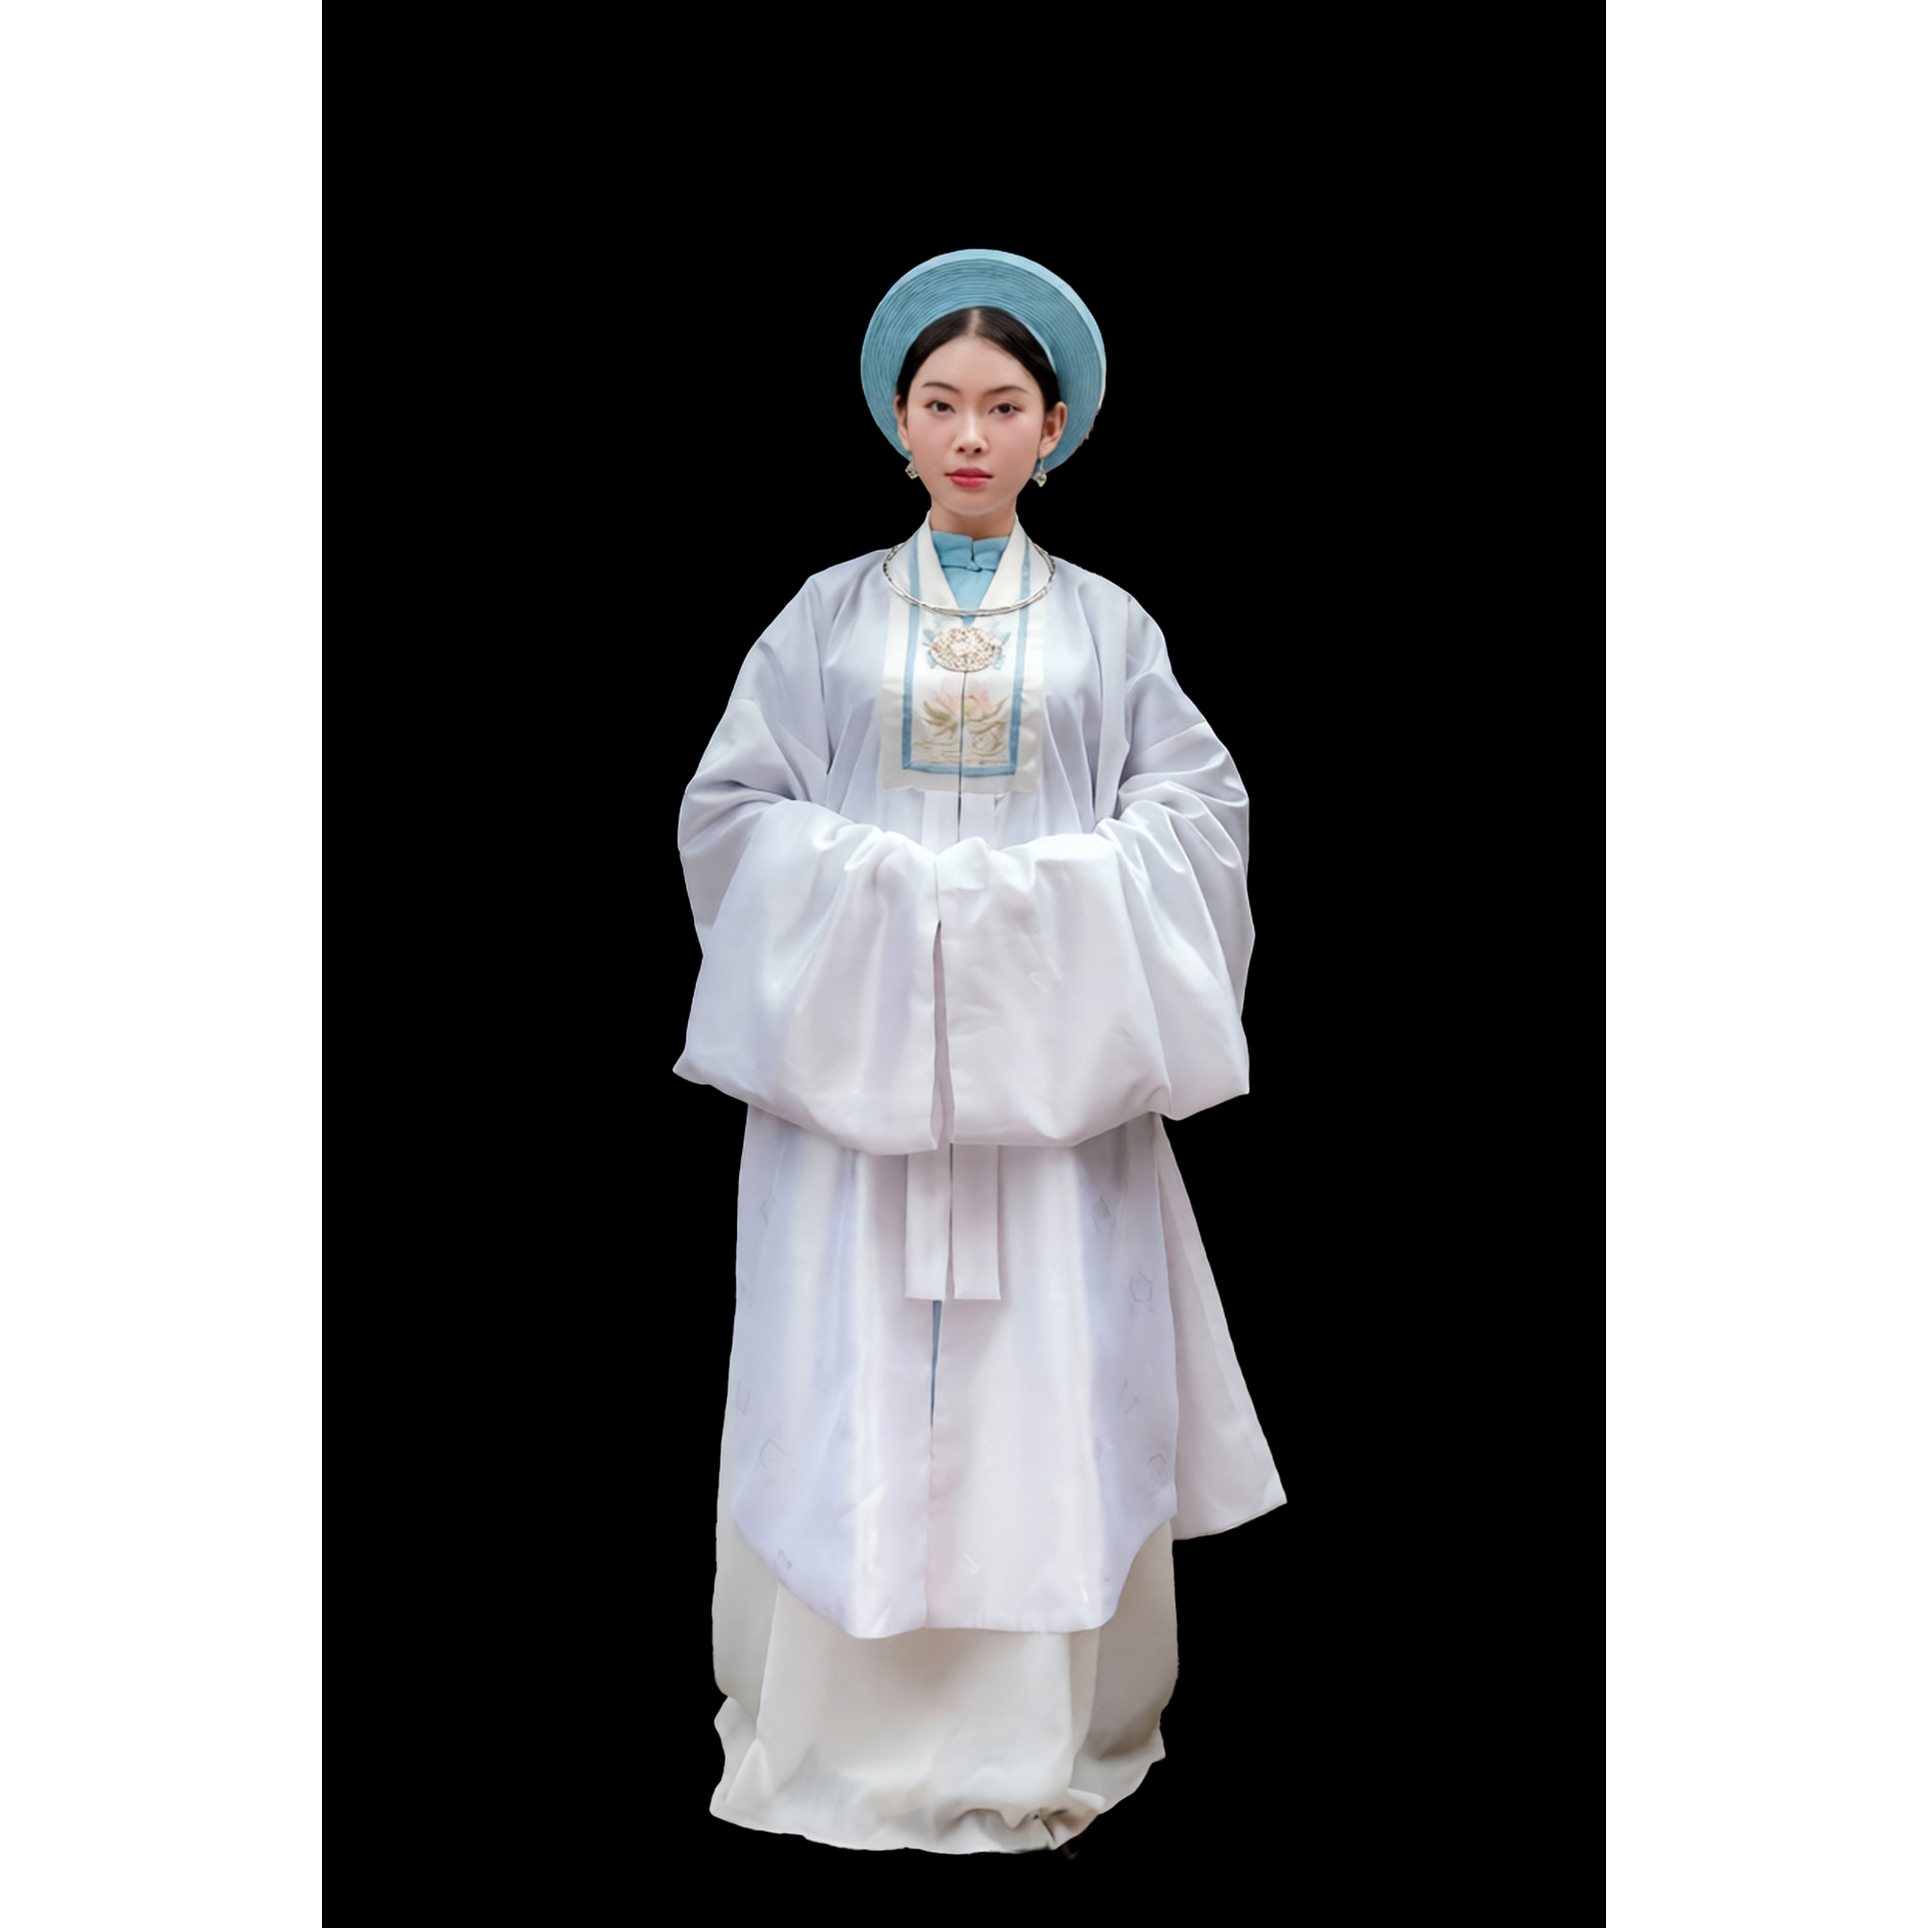
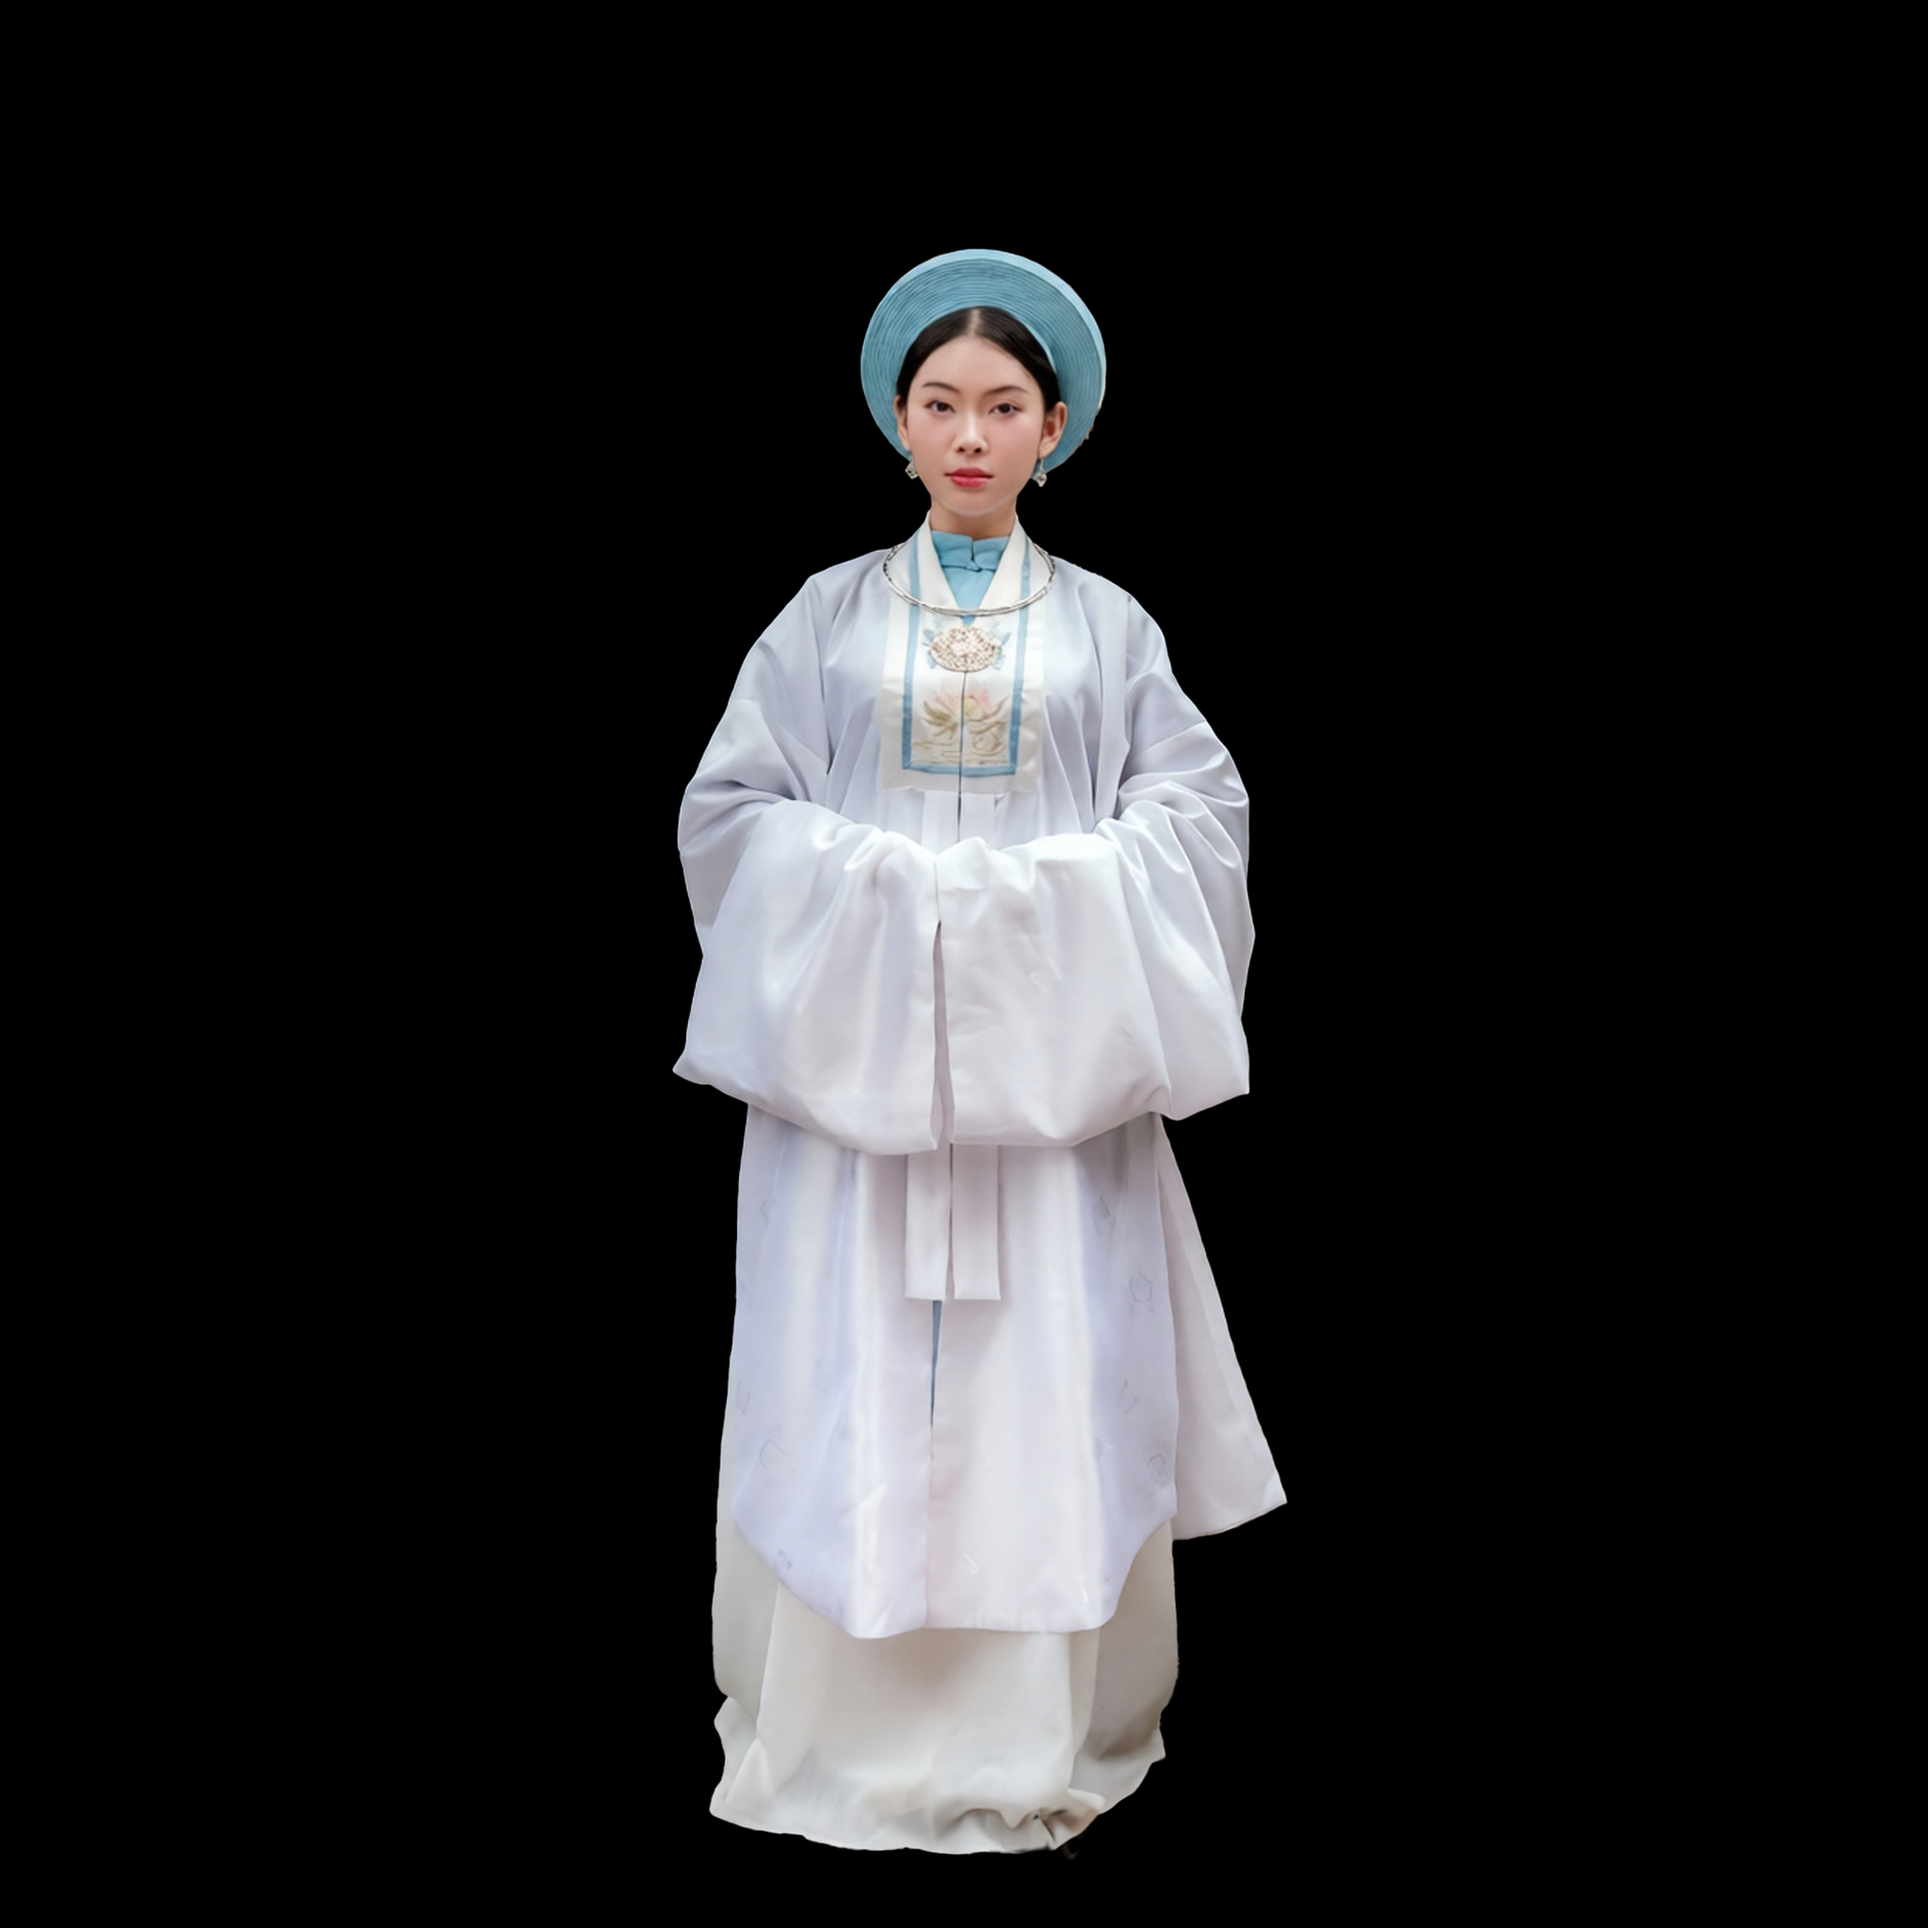
Resize images to 2048x2048 with extended background colors

diff --git a/resize_images.py b/resize_images.py
@@ -1,6 +1,7 @@
 import os
 from PIL import Image
 import glob
+from collections import Counter
 
 def get_image_size(image_path):
     """Get the dimensions of an image."""
@@ -36,16 +37,82 @@ def find_largest_dimension(image_dir):
     
     return square_size
 
+def detect_background_color(img):
+    """Detect the solid background color by sampling from visible content areas."""
+    width, height = img.size
+    
+    # First, composite onto white to see actual colors (for transparent images)
+    if img.mode == 'RGBA':
+        # Create white background
+        white_bg = Image.new('RGBA', img.size, (255, 255, 255, 255))
+        img_composited = Image.alpha_composite(white_bg, img)
+        img_to_sample = img_composited.convert('RGB')
+    else:
+        img_to_sample = img.convert('RGB')
+    
+    # Sample from multiple regions: avoid center (subject) but get visible background
+    samples = []
+    
+    # Sample from outer regions (likely background, not subject)
+    regions = [
+        # Top region
+        (width // 4, 0, width * 3 // 4, height // 4),
+        # Bottom region
+        (width // 4, height * 3 // 4, width * 3 // 4, height),
+        # Left region
+        (0, height // 4, width // 4, height * 3 // 4),
+        # Right region
+        (width * 3 // 4, height // 4, width, height * 3 // 4),
+        # Corners
+        (0, 0, width // 3, height // 3),
+        (width * 2 // 3, 0, width, height // 3),
+        (0, height * 2 // 3, width // 3, height),
+        (width * 2 // 3, height * 2 // 3, width, height),
+    ]
+    
+    for x1, y1, x2, y2 in regions:
+        # Sample every few pixels in this region
+        step_x = max(1, (x2 - x1) // 20)
+        step_y = max(1, (y2 - y1) // 20)
+        for y in range(y1, y2, step_y):
+            for x in range(x1, x2, step_x):
+                if 0 <= x < width and 0 <= y < height:
+                    pixel = img_to_sample.getpixel((x, y))
+                    if len(pixel) >= 3:
+                        samples.append(pixel[:3])
+    
+    if samples:
+        # Find most common color
+        color_counts = Counter(samples)
+        # Get the most common color
+        bg_color = color_counts.most_common(1)[0][0]
+        return bg_color
+    
+    return (255, 255, 255)  # Default to white
+
 def resize_image_to_square(image_path, output_path, square_size):
-    """Resize an image to a square size with transparent padding."""
+    """Resize an image to a square size with background color extended."""
     try:
         with Image.open(image_path) as img:
-            # Convert to RGBA to support transparency (handles RGB, RGBA, P, etc.)
+            # First, ensure we have RGBA to detect solid colors from transparent images
             if img.mode != 'RGBA':
-                img = img.convert('RGBA')
+                img_rgba = img.convert('RGBA')
+            else:
+                img_rgba = img.copy()
+            
+            # Detect background color from visible content areas
+            bg_color = detect_background_color(img_rgba)
+            
+            # Composite the RGBA image onto the detected background color
+            # This ensures transparent areas are filled with the correct background
+            bg_img = Image.new('RGBA', img_rgba.size, bg_color + (255,))
+            img_composited = Image.alpha_composite(bg_img, img_rgba)
+            
+            # Convert to RGB for final processing
+            img_rgb = img_composited.convert('RGB')
             
             # Calculate padding to center the image
-            width, height = img.size
+            width, height = img_rgb.size
             
             # Calculate scaling to fit within square while maintaining aspect ratio
             scale = min(square_size / width, square_size / height)
@@ -53,21 +120,21 @@ def resize_image_to_square(image_path, output_path, square_size):
             new_height = int(height * scale)
             
             # Resize image
-            img_resized = img.resize((new_width, new_height), Image.Resampling.LANCZOS)
+            img_resized = img_rgb.resize((new_width, new_height), Image.Resampling.LANCZOS)
             
-            # Create a new square image with transparent background
-            square_img = Image.new('RGBA', (square_size, square_size), (0, 0, 0, 0))
+            # Create a new square image with detected background color
+            square_img = Image.new('RGB', (square_size, square_size), bg_color)
             
             # Calculate position to center the resized image
             x_offset = (square_size - new_width) // 2
             y_offset = (square_size - new_height) // 2
             
-            # Paste the resized image onto the square canvas (preserves alpha channel)
-            square_img.paste(img_resized, (x_offset, y_offset), img_resized)
+            # Paste the resized image onto the square canvas
+            square_img.paste(img_resized, (x_offset, y_offset))
             
             # Save the result
             square_img.save(output_path, 'PNG')
-            print(f"Resized: {os.path.basename(image_path)} -> {os.path.basename(output_path)}")
+            print(f"Resized: {os.path.basename(image_path)} -> {os.path.basename(output_path)} (bg: {bg_color})")
             return True
     except Exception as e:
         print(f"Error resizing {image_path}: {e}")
